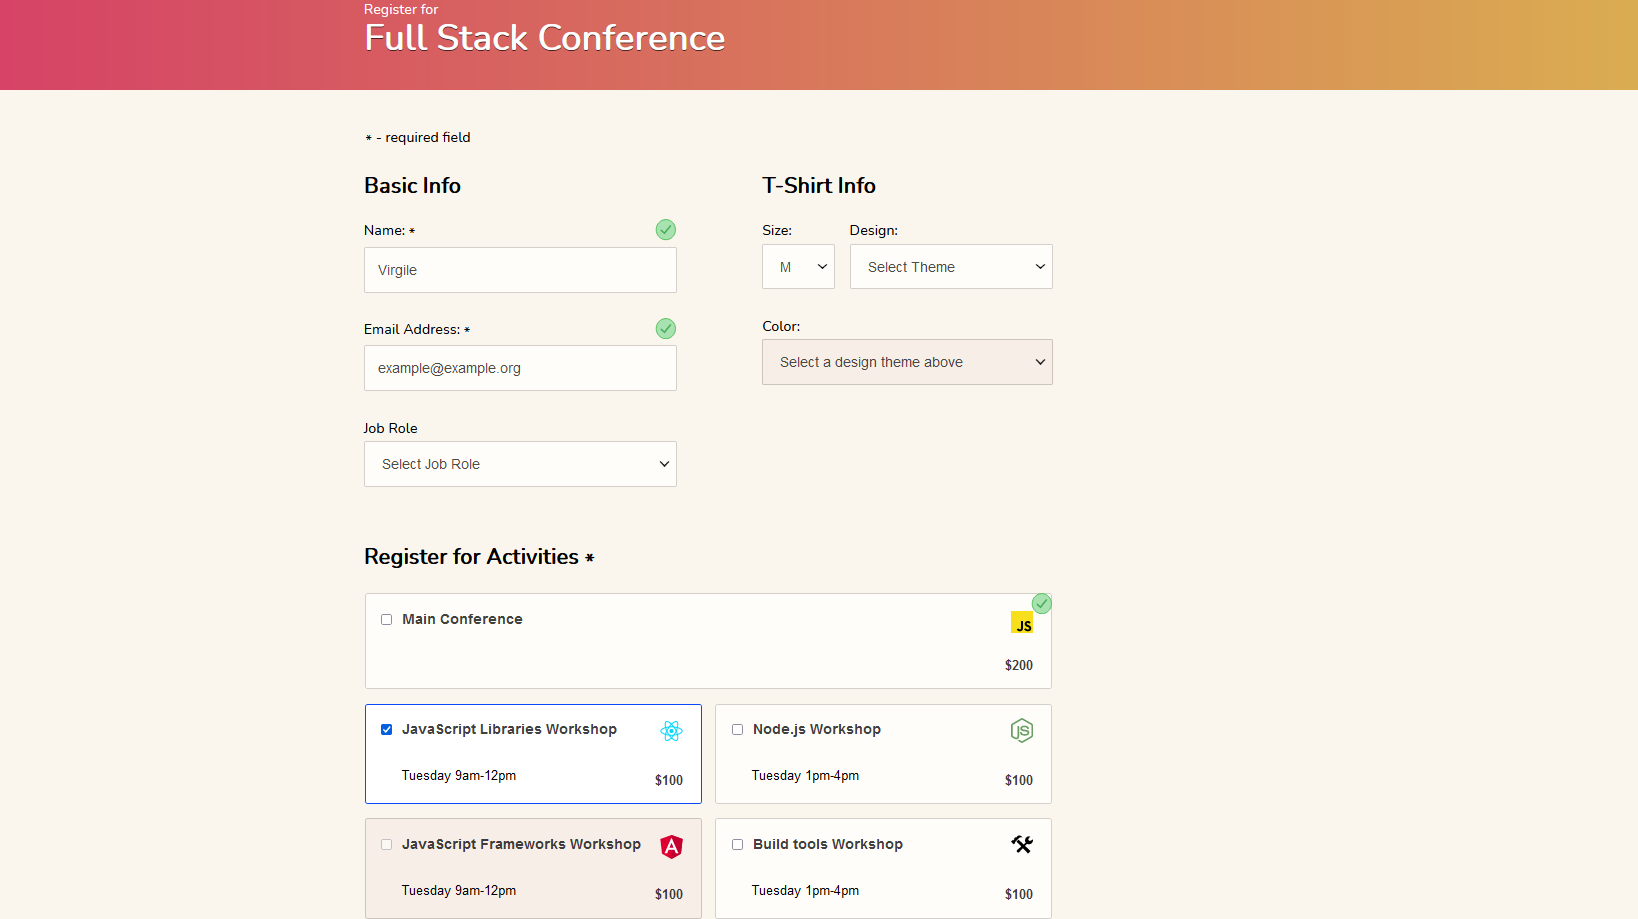
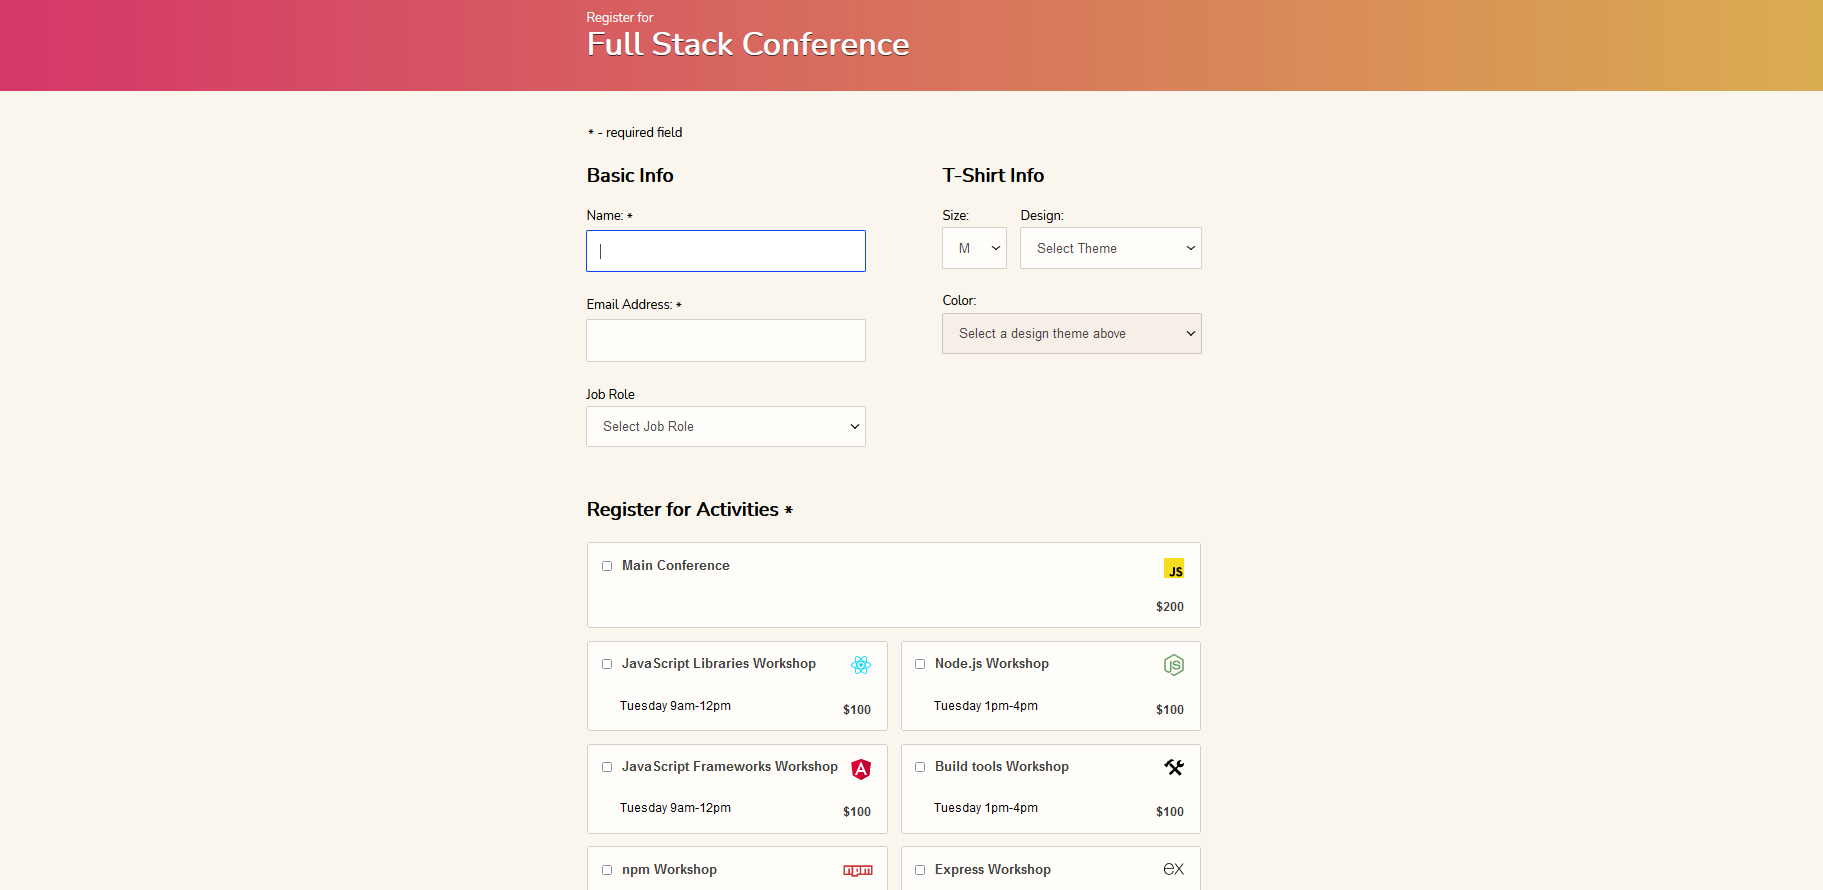
css qui est relou

diff --git a/public/css/styles.css b/public/css/styles.css
@@ -2,6 +2,7 @@
 /*
   Main styles
 */
+
 * {
   box-sizing: border-box;
 }
@@ -17,22 +18,22 @@ body {
 
 body {
   position: relative;
-  font-family: "Helvetica Neue", Helvetica, Roboto, Arial, sans-serif;
+  font-family: "Helvetica Neue", Helvetica, 'Roboto Condensed', Arial, sans-serif;
   font-weight: normal;
   line-height: 1.5;
   color: #0a0a0a;
-  background: #fefefe;
+  background: #f6f4f2;
   background: #000;
   transform: translateX(0px);
   transition: all 0.4s ease-out;
 }
 
 article {
-  background: #fefefe;
+  background: #f6f4f2;
 }
 
 h1,h2,h3,h4,h5,p{
-  font-family: 'Merriweather', serif;
+  font-family: 'Roboto Condensed', serif;
 }
 
 h5{
@@ -61,9 +62,9 @@ a {
 .wrapper {
   width: 100%;
   min-width: 320px;
-  height: 100%;
-  min-height: 100%;
-  background: #fefefe;
+  height: 100em;
+  min-height: 100em;
+  background: #f6f4f2;
 }
 
 .flex-row-wrap {
@@ -80,9 +81,9 @@ a {
 
 .box {
   width: 100%;
-  max-width: 1200px;
+  max-width: 1600px;
   padding: 40px 50px 30px;
-  background: #fefefe;
+  background: #f6f4f2;
   border-bottom: 1px solid #eaeaea;
 }
 
@@ -108,7 +109,7 @@ a {
 nav {
   width: 100%;
   padding: 20px;
-  border-bottom: 1px solid #eaeaea;
+  border-bottom: 1px solid #aeadad;
 }
 
 nav a {
@@ -134,13 +135,15 @@ nav a span {
   bottom: 0;
   min-width: 300px;
   max-width: 300px;
-  height: 100%;
-  min-height: 100%;
+  height: 100vh;
+  min-height: 100em;
   padding: 20px;
-  background: #000;
+  background: #001730;
 }
 
 .sidebar-info-box {
+  position: sticky;
+  top:0%;
   margin: auto;
 }
 
@@ -181,7 +184,7 @@ nav a span {
 
 .header {
   vertical-align: middle;
-  color: #fefefe;
+  color: #f6f4f2;
   height: 40px;
   padding: 0.5rem;
   background: #0a0a0a;
@@ -204,8 +207,8 @@ nav a span {
   background: #0a0a0a;
   margin-top: 3px;
   margin-right: 10px;
-  border-top: 2px solid #fefefe;
-  border-bottom: 2px solid #fefefe;
+  border-top: 2px solid #f6f4f2;
+  border-bottom: 2px solid #f6f4f2;
 }
 
 .header button:after {
@@ -223,7 +226,7 @@ nav a span {
   Home page styles
 */
 .portfolio-intro {
-  max-width: 1200px;
+  max-width: 1200;
   padding: 40px 50px 30px;
 }
 
@@ -238,7 +241,7 @@ nav a span {
   font-size: 125%;
   margin: 0 auto;
   padding-bottom: 40px;
-  border-bottom: 1px solid #eaeaea;
+  border-bottom: 1px solid #aeadad;
 }
 
 .projects-box h5 {
@@ -299,7 +302,10 @@ nav a span {
   background-color: #333;
   border: 1px solid transparent;
 }
-
+.thumbnail{
+  max-width: 550px;
+  max-height: 550px;
+}
 
 /* 
   Tablet layout styles 

diff --git a/app.js b/app.js
@@ -1,13 +1,23 @@
+/***
+ * Import section
+ */
+
 const express = require('express')
 const router = require('./routes/routes')
 const path = require('path')
 const errorHandlers = require('./routes/errorHandler')
-const app = express()
 
+//create the Express app
+const app = express()
+/**
+ * Middleware section
+ */
 app.set('view engine', 'pug')
 app.use('/static', express.static(path.join(__dirname, 'public')))
 app.use(router)
 app.use(errorHandlers)
+
+//launch the app on port 3000
 app.listen(3000, () =>{
     console.log('App started on port 3000')
 

diff --git a/routes/errorHandler.js b/routes/errorHandler.js
@@ -1,9 +1,9 @@
-const express = require('express');
+//Error handler
 const globalErrorHandler = (err, req, res, next) => {
     
     if (err.status === 404){
         res.status = 404
-        res.render('not-found', {err})
+        res.render('page-not-found', {err})
     } else {
         err.message = 'There was an unexcepted error with your request, please try again later'
         res.status = 500
